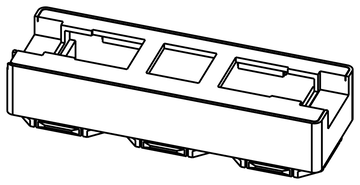
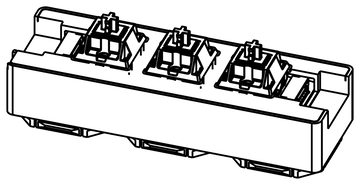
Publish docs from 2577804

Changed region(s): [[0.1528, 0.0541, 0.8861, 0.5676]]

diff --git a/getting-started/tiles.html b/getting-started/tiles.html
@@ -155,8 +155,7 @@
 </tbody>
 </table>
 <h3 id="mx3-and-mx3rgb">mx3 and mx3rgb<a class="headerlink" href="#mx3-and-mx3rgb" title="Permanent link">#</a></h3>
-<p><img alt="The mx3 board, three keys in a row" src="../images/tile-mx3.png" /></p>
-<p><img alt="The mx3rgb in its 3x1 case" src="../images/tile-mx3rgb.png" /></p>
+<p><img alt="The mx3rgb in its 3x1 case, with its three switches fitted" src="../images/tile-mx3rgb.png" /></p>
 <p>Three keys in a row. The RGB version is 2 mm taller, so the two do not share a case; only mx3rgb has one so far.</p>
 <table>
 <thead>
@@ -185,7 +184,7 @@
 </tbody>
 </table>
 <h3 id="mx4-and-mx4rgb">mx4 and mx4rgb<a class="headerlink" href="#mx4-and-mx4rgb" title="Permanent link">#</a></h3>
-<p><img alt="The mx4 in its 3x2 case" src="../images/tile-mx4.png" /></p>
+<p><img alt="The mx4 in its 3x2 case, with its four switches fitted" src="../images/tile-mx4.png" /></p>
 <p>Four keys as a WASD cluster: three in a row with one above the middle. Key 1 is the top key (W), and keys 2 to 4 are the bottom row from left to right (A, S, D).</p>
 <table>
 <thead>
@@ -214,7 +213,7 @@
 </tbody>
 </table>
 <h3 id="mx6rgb">mx6rgb<a class="headerlink" href="#mx6rgb" title="Permanent link">#</a></h3>
-<p><img alt="The mx6rgb in its 3x3 case" src="../images/tile-mx6rgb.png" /></p>
+<p><img alt="The mx6rgb in its 3x3 case, with its six switches fitted" src="../images/tile-mx6rgb.png" /></p>
 <p>Six keys in a 3 × 2 grid, each with a colour LED. Six LEDs at full white still fit the default USB power budget.</p>
 <table>
 <thead>
@@ -239,27 +238,6 @@
 <tr>
 <td>Grid</td>
 <td>3 × 3</td>
-</tr>
-</tbody>
-</table>
-<h3 id="mx9-and-mx9rgb">mx9 and mx9rgb<a class="headerlink" href="#mx9-and-mx9rgb" title="Permanent link">#</a></h3>
-<p><img alt="The mx9 board, nine keys in a 3 by 3 grid" src="../images/tile-mx9.png" /></p>
-<p>Nine keys in a 3 × 3 grid. <strong>Not available yet:</strong> the board is still being finished.</p>
-<table>
-<thead>
-<tr>
-<th></th>
-<th></th>
-</tr>
-</thead>
-<tbody>
-<tr>
-<td>Keys</td>
-<td>9</td>
-</tr>
-<tr>
-<td>LEDs</td>
-<td>mx9rgb: 9</td>
 </tr>
 </tbody>
 </table>
@@ -368,9 +346,6 @@
 </tr>
 </tbody>
 </table>
-<div class="hint hint-warning">
-<p>Use a display module with its own regulator. The board feeds the panel 5 V, and the silkscreen says <code>5V MODULE ONLY</code>.</p>
-</div>
 <h3 id="disp2">disp2<a class="headerlink" href="#disp2" title="Permanent link">#</a></h3>
 <p><img alt="The disp2 in its 2x2 case" src="../images/tile-disp2.png" /></p>
 <p>A 1.8&rdquo; colour display, 160 × 128, landscape. It shows coloured text, and it stores up to 32 pictures on the tile, so the robot can switch between them instantly.</p>
@@ -434,7 +409,7 @@
 </tbody>
 </table>
 <h2 id="bus-parts">Bus parts<a class="headerlink" href="#bus-parts" title="Permanent link">#</a></h2>
-<p>These have no processor and do not show up as tiles. They only shape the cabling.</p>
+<p>This has no processor and does not show up as a tile. It only shapes the cabling.</p>
 <h3 id="splitter">Splitter<a class="headerlink" href="#splitter" title="Permanent link">#</a></h3>
 <p><img alt="The splitter in its 1x1 case" src="../images/tile-splitter.png" /></p>
 <p>Four connectors wired together, one on each edge, so the chain can branch. See <a href="wiring.html#splitting-the-chain">Splitting the chain</a>.</p>
@@ -460,31 +435,6 @@
 </tr>
 </tbody>
 </table>
-<h3 id="terminator">Terminator<a class="headerlink" href="#terminator" title="Permanent link">#</a></h3>
-<p><img alt="The terminator board, one connector" src="../images/tile-terminator.png" /></p>
-<p>A one-connector board that ends the bus cleanly. Plug one into the spare connector at each end of the chain: <strong>two per panel</strong>.</p>
-<table>
-<thead>
-<tr>
-<th></th>
-<th></th>
-</tr>
-</thead>
-<tbody>
-<tr>
-<td>Connectors</td>
-<td>1</td>
-</tr>
-<tr>
-<td>Size</td>
-<td>20 × 20 mm</td>
-</tr>
-<tr>
-<td>Grid</td>
-<td>no case yet</td>
-</tr>
-</tbody>
-</table>
     </article>
     <nav class="pager-row"><a class="pager prev" href="../getting-started/hardware.html"><span class="pager-label">Previous</span><span class="pager-title">What you have</span></a><a class="pager next" href="../getting-started/cases.html"><span class="pager-label">Next</span><span class="pager-title">Printing the cases</span></a></nav>
     <footer class="page-footer">
@@ -502,7 +452,6 @@
 <li><a href="#mx3-and-mx3rgb">mx3 and mx3rgb</a></li>
 <li><a href="#mx4-and-mx4rgb">mx4 and mx4rgb</a></li>
 <li><a href="#mx6rgb">mx6rgb</a></li>
-<li><a href="#mx9-and-mx9rgb">mx9 and mx9rgb</a></li>
 </ul>
 </li>
 <li><a href="#arcade-buttons">Arcade buttons</a>
@@ -526,7 +475,6 @@
 <li><a href="#bus-parts">Bus parts</a>
 <ul class="toc-sub">
 <li><a href="#splitter">Splitter</a></li>
-<li><a href="#terminator">Terminator</a></li>
 </ul>
 </li>
 </ul>

diff --git a/getting-started/hardware.html b/getting-started/hardware.html
@@ -129,51 +129,80 @@
 <th>Tile</th>
 <th>What it is</th>
 <th>Keys</th>
+<th>Grid</th>
 </tr>
 </thead>
 <tbody>
 <tr>
-<td><strong>mx9</strong></td>
-<td>3 × 3 grid of Cherry MX hot-swap keys</td>
-<td>9</td>
-</tr>
-<tr>
-<td><strong>mx9rgb</strong></td>
-<td>The same, with an RGB LED under every key</td>
-<td>9</td>
-</tr>
-<tr>
-<td><strong>mx1</strong></td>
-<td>A single MX key</td>
+<td><strong>mx1</strong> / <strong>mx1rgb</strong></td>
+<td>A single Cherry MX hot-swap key</td>
 <td>1</td>
+<td>2 × 1</td>
+</tr>
+<tr>
+<td><strong>mx1 1x1</strong> / <strong>mx1rgb 1x1</strong></td>
+<td>The same key on the smallest board, cables out the back</td>
+<td>1</td>
+<td>1 × 1</td>
+</tr>
+<tr>
+<td><strong>mx3</strong> / <strong>mx3rgb</strong></td>
+<td>Three keys in a row</td>
+<td>3</td>
+<td>3 × 1</td>
+</tr>
+<tr>
+<td><strong>mx4</strong> / <strong>mx4rgb</strong></td>
+<td>Four keys as a WASD cluster</td>
+<td>4</td>
+<td>3 × 2</td>
+</tr>
+<tr>
+<td><strong>mx6rgb</strong></td>
+<td>Six keys in a 3 × 2 grid, an RGB LED under each</td>
+<td>6</td>
+<td>3 × 3</td>
 </tr>
 <tr>
 <td><strong>arc4</strong></td>
 <td>Four arcade buttons, each on a 3-pin JST PH lead</td>
 <td>4</td>
+<td>2 × 1</td>
+</tr>
+<tr>
+<td><strong>enc1</strong></td>
+<td>One rotary encoder with a push-to-click shaft</td>
+<td>1 encoder + 1 key</td>
+<td>2 × 1</td>
 </tr>
 <tr>
 <td><strong>enc2</strong></td>
 <td>Two rotary encoders with push-to-click shafts</td>
 <td>2 encoders + 2 keys</td>
+<td>2 × 2</td>
 </tr>
 <tr>
 <td><strong>disp1</strong></td>
 <td>A 128 × 32 text panel — a readout, not a control</td>
 <td>none</td>
+<td>2 × 1</td>
 </tr>
 <tr>
 <td><strong>disp2</strong></td>
 <td>A 160 × 128 colour display: text, and stored pictures</td>
 <td>none</td>
+<td>2 × 2</td>
 </tr>
 <tr>
 <td><strong>screenkey1</strong></td>
 <td>One key whose cap <strong>is</strong> a 128 × 128 colour screen</td>
 <td>1</td>
+<td>2 × 1</td>
 </tr>
 </tbody>
 </table>
+<p>The <strong>rgb</strong> versions are the same board with a colour LED under every key. See <a href="../configuring/leds.html">LED colours</a>.</p>
+<p>The <strong>splitter</strong>, a small board with no processor, has four connectors so the chain can branch.</p>
 <p>Every tile, with pictures and what each can do, is on <a href="tiles.html">The tiles</a>.</p>
 <p><code>disp1</code>, <code>disp2</code> and <code>screenkey1</code> are the display tiles. On <code>screenkey1</code> the screen is the key&rsquo;s legend. See <a href="../configuring/screen-keys.html">Display tiles and legends</a>.</p>
 <p>Keys on a tile are numbered from <strong>0</strong>. Buttons the Driver Station sees are numbered from <strong>1</strong>. See <a href="../configuring/binding.html">Binding buttons</a>.</p>

diff --git a/configuring/leds.html b/configuring/leds.html
@@ -4,7 +4,7 @@
 <meta charset="utf-8">
 <meta name="viewport" content="width=device-width, initial-scale=1">
 <title>LED colours · BBR Button Board</title>
-<meta name="description" content="LED colours Tiles with RGB keys — mx9rgb today — have one addressable LED under every key. There are two independent ways to drive them. Two layers Defaults are part of your saved ">
+<meta name="description" content="LED colours Tiles with RGB keys — the ones whose name ends in rgb, such as mx4rgb and mx6rgb — have one addressable LED under every key. There are two independent ways to drive the">
 <link rel="canonical" href="https://buttonboard.buildingblockrobotics.com/configuring/leds.html">
 <link rel="icon" href="../favicon.ico" sizes="any">
 <link rel="icon" href="../favicon.svg" type="image/svg+xml">
@@ -91,7 +91,7 @@
   <main id="content" class="content">
     <article class="prose">
       <h1 id="led-colours">LED colours<a class="headerlink" href="#led-colours" title="Permanent link">#</a></h1>
-<p>Tiles with RGB keys — <code>mx9rgb</code> today — have one addressable LED under every key. There are two independent ways to drive them.</p>
+<p>Tiles with RGB keys — the ones whose name ends in <code>rgb</code>, such as <code>mx4rgb</code> and <code>mx6rgb</code> — have one addressable LED under every key. There are two independent ways to drive them.</p>
 <h2 id="two-layers">Two layers<a class="headerlink" href="#two-layers" title="Permanent link">#</a></h2>
 <p><strong>Defaults</strong> are part of your saved configuration. They are what the panel looks like when it powers up: a red key for the emergency stop, blue for the intake, dark for everything unbound. Set them in the config app&rsquo;s <strong>Configure</strong> screen, and press <strong>Save</strong>.</p>
 <p><strong>The live layer</strong> is set at runtime, over USB, by a companion app on the Driver Station laptop. It is never saved. Use it to, for example, flash the arm button red while the arm is out of bounds, or light the scoring buttons only when the robot is in range.</p>

diff --git a/configuring/config-app.html b/configuring/config-app.html
@@ -93,7 +93,7 @@
       <h1 id="the-config-app">The config app<a class="headerlink" href="#the-config-app" title="Permanent link">#</a></h1>
 <p>Everything is configured in a browser at <strong><a href="https://configure.buttonboard.buildingblockrobotics.com">https://configure.buttonboard.buildingblockrobotics.com</a></strong>, with nothing to install. The page talks to the board directly over USB; your configuration never leaves the laptop.</p>
 <div class="hint hint-warning">
-<p><strong>Chrome or Edge, on a desktop.</strong> The app uses Web Serial, which Firefox, Safari and mobile browsers do not support. It has to be served over HTTPS or from <code>localhost</code>; opening the files directly with <code>file://</code> will not work.</p>
+<p><strong>Chrome or Edge, on a desktop.</strong> The app uses Web Serial, which Firefox, Safari and mobile browsers do not support.</p>
 </div>
 <p>Press <strong>Connect</strong> and pick the board from the browser&rsquo;s port list. The first time, the board has to be selected by hand.</p>
 <h2 id="five-screens">Five screens<a class="headerlink" href="#five-screens" title="Permanent link">#</a></h2>

diff --git a/getting-started/cases.html b/getting-started/cases.html
@@ -242,9 +242,6 @@
 <li>Snap the base into the openGrid board.</li>
 </ol>
 <p>To open a case, pull the switches first, if it has any. Then lift the lid at the small notch in its rim with a fingernail or a small screwdriver.</p>
-<div class="hint hint-info">
-<p>The cases are generated from scripts in the project&rsquo;s <code>hardware/&lt;board&gt;/case/</code> folders, so a change to a board or a case is made there, not in the STEP files.</p>
-</div>
     </article>
     <nav class="pager-row"><a class="pager prev" href="../getting-started/tiles.html"><span class="pager-label">Previous</span><span class="pager-title">The tiles</span></a><a class="pager next" href="../getting-started/wiring.html"><span class="pager-label">Next</span><span class="pager-title">Plugging it together</span></a></nav>
     <footer class="page-footer">
